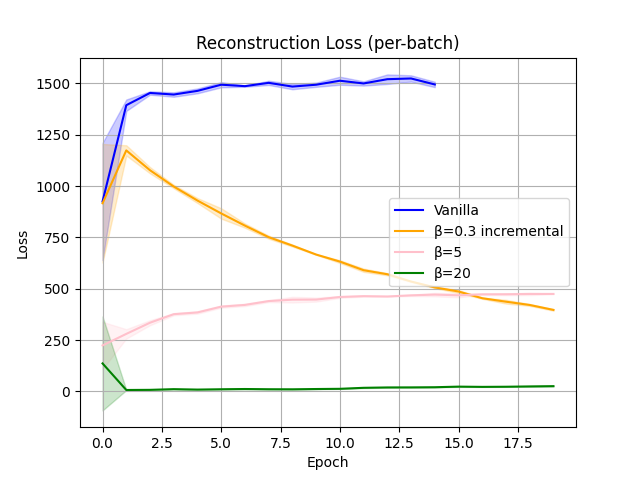
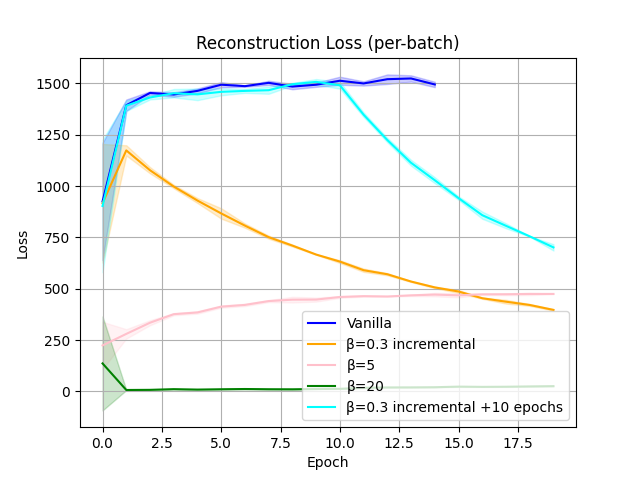
Added figures

diff --git a/utils/plot_graphs.py b/utils/plot_graphs.py
@@ -3,7 +3,7 @@ import os
 import matplotlib.pyplot as plt
 
 root_dir = os.path.join(os.path.dirname(os.path.abspath(__file__)), '../')
-colors = ["blue", "orange", "pink", "green"]
+colors = ["blue", "orange", "pink", "green", "cyan"]
 
 # Load CSV files Reconstruction loss 
 plots_rec = {
@@ -11,6 +11,7 @@ plots_rec = {
     1: ("/runs/beta-vae/beta_0.3_incr/plots/reconstruction_loss_mean.csv", "/runs/beta-vae/beta_0.3_incr/plots/reconstruction_loss_stdev.csv", "β=0.3 incremental"),
     2: ("/runs/beta-vae/beta_5/plots/reconstruction_loss_mean.csv", "/runs/beta-vae/beta_5/plots/reconstruction_loss_stdev.csv", "β=5"),
     3: ("/runs/beta-vae/beta_20/plots/reconstruction_loss_mean.csv", "/runs/beta-vae/beta_20/plots/reconstruction_loss_stdev.csv", "β=20"),
+    4: ("/runs/beta-vae/beta_1_third/plots/reconstruction_loss_mean.csv", "/runs/beta-vae/beta_1_third/plots/reconstruction_loss_stdev.csv", "β=0.3 incremental +10 epochs"),
 }
 
 plots_kl = {
@@ -18,6 +19,7 @@ plots_kl = {
     1: ("/runs/beta-vae/beta_0.3_incr/plots/kl_div_mean.csv", "/runs/beta-vae/beta_0.3_incr/plots/kl_div_stdev.csv", "β=0.3 incremental"),
     2: ("/runs/beta-vae/beta_5/plots/kl_div_mean.csv", "/runs/beta-vae/beta_5/plots/kl_div_stdev.csv", "β=5"),
     3: ("/runs/beta-vae/beta_20/plots/kl_div_mean.csv", "/runs/beta-vae/beta_20/plots/kl_div_stdev.csv", "β=20"),
+    4: ("/runs/beta-vae/beta_1_third/plots/kl_div_mean.csv", "/runs/beta-vae/beta_1_third/plots/kl_div_stdev.csv", "β=0.3 incremental +10 epochs"),
 }
 
 

diff --git a/scripts/eval.py b/scripts/eval.py
@@ -90,7 +90,7 @@ def inference_per_class():
                 label_mu = torch.cat((mu, label_mu), dim=0)
                 label_sigma = torch.cat((sigma, label_sigma), dim=0)
             except Exception:
-                print(f'[ERROR] Batch has weird size {batch.shape}')
+                print(f'[ERROR] Batch has unexpected size {batch.shape}')
                 exit(0)
 
 
@@ -103,12 +103,15 @@ def inference_per_class():
     del per_class_dictionary
     unorganized_batch = torch.empty(0, SAMPLES_PER_CLASS, CHANNELS, IMG_SIZE, IMG_SIZE).to(device)
     for label in per_class_dictionary_z.keys():
+
         mu = per_class_dictionary_z[label][0]
         sigma = per_class_dictionary_z[label][1]
+
         z_samples = torch.normal(
             mean=mu.expand(SAMPLES_PER_CLASS, -1),
             std=sigma.expand(SAMPLES_PER_CLASS, -1)
         )
+
         reconstructed_batch, _, _ = model.decode(z_samples)
         unorganized_batch = torch.cat((unorganized_batch, reconstructed_batch.unsqueeze(0)), dim=0)
 
@@ -124,10 +127,9 @@ def inference_per_class():
         frame_duration=0.5,
         gif_name=CLASS_INFERENCE_NAME,
     )
-
     model.train()
 
 
 if __name__ == "__main__":
-    inference()
+    # inference()
     inference_per_class()

diff --git a/README.md b/README.md
@@ -111,6 +111,20 @@
     <td align="center">
     </td>
   </tr>
+
+  <tr>
+    <td align="center">
+      $\beta$-VAE (0.3 $\beta$ incremental +10 epochs)
+    </td>
+    <td align="center">
+      <img src="res/beta_1_third.png" alt="Samples Vanilla" style="width:200px;height:200px;">
+    </td>
+    <td align="center">
+      <img src="res/beta_1_third_samples_per_class.png" alt="Loss Vanilla" style="width:300px;height:300px;">
+    </td>
+    <td align="center">
+    </td>
+  </tr>
   
 </table>
 
@@ -130,6 +144,19 @@
     </td>
     <td align="center">
       <img src="res/kl_div.png" alt="KL Vanilla" style="width:330px;height:200px;">
+    </td>
+  </tr>
+</table>
+
+<table>
+  <tr>
+    <td align="center">
+        Image sampling transition $\beta$-VAE
+    </td>
+  </tr>
+  <tr>
+    <td align="center">
+      <img src="res/number_transitions.gif" alt="Reconstruction Vanilla" style="width:330px;height:200px;">
     </td>
   </tr>
 </table>
